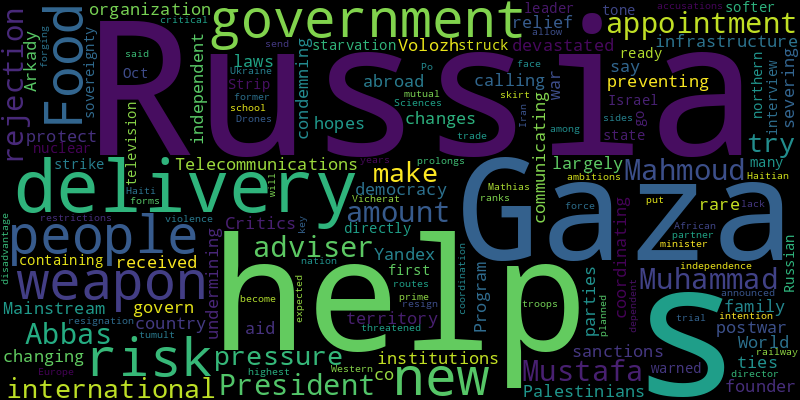
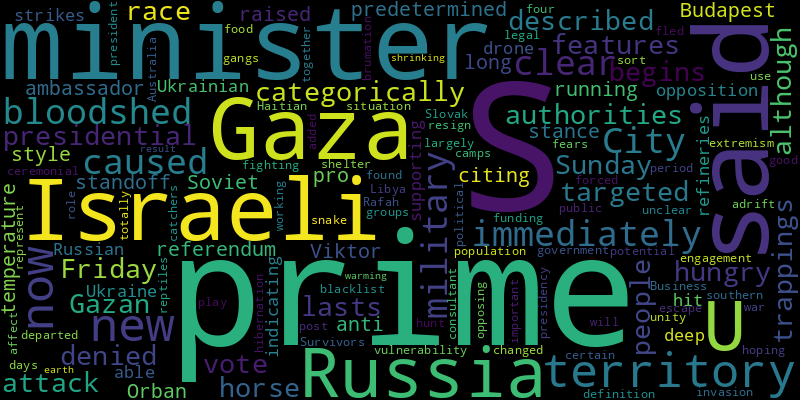
chore(bot): 🤖 auto commit

diff --git a/README.md b/README.md
@@ -2,41 +2,41 @@
 Auto RSS New York Times and Generate Word Cloud
 
 ## New York Times Global News
-* The appointment of Muhammad Mustafa, an adviser to President Mahmoud Abbas, would amount to a rejection of international pressure to try to make the organization more independent in the hopes it could help govern postwar Gaza.
-* Telecommunications infrastructure has been devastated in the territory, largely preventing Palestinians from calling for help, coordinating the delivery of aid and communicating with family abroad.
-* Mainstream parties are changing laws to protect government institutions. Critics say the changes risk undermining democracy.
-* Yandex’s co-founder, Arkady Volozh, received rare sanctions relief after condemning Russia’s war and severing ties to the country.
-* The World Food Program delivery, containing food for 25,000 people, was the first since Oct. 7 to go directly from Israel into the northern Gaza Strip, where many people are at risk of starvation.
-* The Russian leader struck a softer tone about nuclear weapons in an interview with state television. But he warned that Russia was ready to strike if its “sovereignty and independence” were threatened.
-* Once dependent on Europe for trade, Russia has been forging new routes that will allow it to skirt Western restrictions. A planned railway through Iran could be key for those ambitions.
-* Mathias Vicherat, the director of Sciences Po, and his former partner are expected to face trial over mutual accusations of violence. His resignation prolongs years of tumult in the school’s highest ranks.
-* The African nation said it would not send a force until Haiti forms a new government after the Haitian prime minister announced his intention to resign.
-* Drones have become a critical weapon for both sides, but a lack of coordination among troops has put Ukraine at a disadvantage.
+* It was not immediately clear what caused the bloodshed in Gaza City. The Israeli military categorically denied what Gazan authorities described as a “targeted attack” on hungry people.
+* The presidential vote in Russia begins on Friday and lasts through Sunday, and although it features the trappings of a horse race, it is more of a predetermined, Soviet-style referendum.
+* The U.S. ambassador to Budapest raised the temperature in a long-running standoff, citing Prime Minister Viktor Orban’s pro-Russia, anti-U.S. stance and opposition to supporting Ukraine.
+* Ukrainian drone strikes have been able to hit refineries deep in Russian territory, indicating a new vulnerability. But it is unclear if that will affect the fighting.
+* Survivors, who departed from Libya, said they had been adrift for four days when they were found.
+* The government said it would use a new legal definition of extremism to blacklist certain groups from public funding or engagement.
+* Most of Gaza’s population fled to the southern territory of Rafah, hoping to escape the war. As they hunt for food and shelter, a potential Israeli invasion has added to their fears.
+* The Slovak presidency is a largely ceremonial post but can play an important role when the president and prime minister represent opposing political camps.
+* “The situation totally changed now, because the gangs are now working together,” a Haitian consultant said. Their unity forced the prime minister to resign.
+* Business is good for snake catchers in Australia, as the period of brumation, a sort of hibernation for reptiles, is shrinking — a result of the warming earth.
 
 ![Global](./global.png)
 ## New York Times United States News
+* Mr. Crumbley and his wife, Jennifer Crumbley, who was found guilty on identical charges last month, are the first parents in the country to be directly charged for the deaths caused by their child in a mass shooting.
+* The mother and father of a Michigan teenager who carried out a school shooting are among the parents who have been convicted of crimes in the aftermath.
+* A new Memphis law had prevented the police from intervening over more minor traffic offenses, such as a broken taillight.
 * Even in liberal San Francisco, the district attorney is preparing to investigate fentanyl deaths as homicides. Defense lawyers call the prosecutions misguided.
-* A medical examiner found evidence of a toxic mix of drugs in the 16-year-old nonbinary high school student in Oklahoma, who died one day after an altercation in a girls’ bathroom.
-* With his latest, and last, book, the 87-year-old writer refuses false optimism.
-* Prosecutors said some of the weapons recovered from the scene of the Feb. 14 shooting had been unlawfully purchased or trafficked.
-* Lacking evidence or the votes to support impeachment charges against President Biden, Republicans are considering criminal referrals against him and his allies instead.
-* A Democratic group is spending nearly $900,000 on a television ad promoting Bernie Moreno, who was endorsed by Donald Trump, just ahead of next week’s Republican primary.
-* The vice president plans to meet with abortion providers and staff members in Minneapolis, a striking political move that shows how assertive Democrats have grown on the issue.
-* The National Park Service plans to chop down 140 of the trees as it builds a new sea wall to protect the area around the Jefferson Memorial.
-* The program would be the largest investment ever for the union, which spent around $150 million in the 2020 presidential cycle.
-* The risks have less to do with who owns the app than who writes the code and algorithms that make TikTok tick.
+* His proposal would pare down the workweek over a four-year period. The 40-hour workweek has stood as the standard in the U.S. since it became enshrined in federal law in 1940.
+* The president’s counsel told Speaker Mike Johnson that it was “obviously time to move on,” citing G.O.P. lawmakers’ own doubts about the impeachment bid.
+* Drought conditions over the summer boiled crawfish before farmers could harvest them, creating a dire situation that the governor has declared a disaster.
+* A storm ripped through a mobile home community in eastern Indiana. Tornadoes were also reported in Ohio and Kentucky.
+* Seven people were killed. The driver, Ronald Britt, is charged with negligent homicide in a crash that killed one of them.
+* All four criminal cases against Donald Trump have become mired in issues that have pushed back the start of trials.
 
 ![US](./usnews.png)
 ## New York Times Asia News
+* Chuck Searcy has spent decades of his life redressing a deadly legacy of America’s war in Vietnam: unexploded ordnance.
+* Customers had problems ordering at restaurants in several countries on Friday. Restaurants in Japan closed, while some in Australia reportedly reverted to using pen and paper.
+* Also, a top U.S. senator calls for Israeli elections.
+* The island democracy urgently needs an internet backup. Mr. Musk’s total control over his Starlink service, which dominates the market, left Taiwan wary.
 * A new regulation aims to rid the palm oil supply chain of imports that come from former forestland. Southeast Asian countries say it threatens livelihoods.
 * The risks have less to do with who owns the app than who writes the code and algorithms that make TikTok tick.
 * Also, aid to northern Gaza and whimsical wooden automatons
 * The legislation received wide bipartisan support, with both Republicans and Democrats showing an eagerness to appear tough on China.
 * The foreign ministry accused Washington of “resorting to hegemonic moves” ahead of a House vote on a bill aimed at ByteDance, TikTok’s Chinese parent company.
 * During Setsubun celebrations in Kyoto, demons and bad luck are banished as people prepare for the start of the new year.
-* The Japanese company hoped to become the country’s first private business to put a satellite into orbit. The failed launch was its inaugural flight.
-* U.S. and European companies looking to diversify from China are expanding around Southeast Asia, a sign of how geopolitics is reshaping tech manufacturing.
-* Her foundation rescued thousands of girls and young women from bonded slavery and secured meals and schooling for impoverished children.
-* Also, more U.S. weapons for Ukraine and a looming financial crisis for dating apps
 
 ![Asian](./asian.png)
